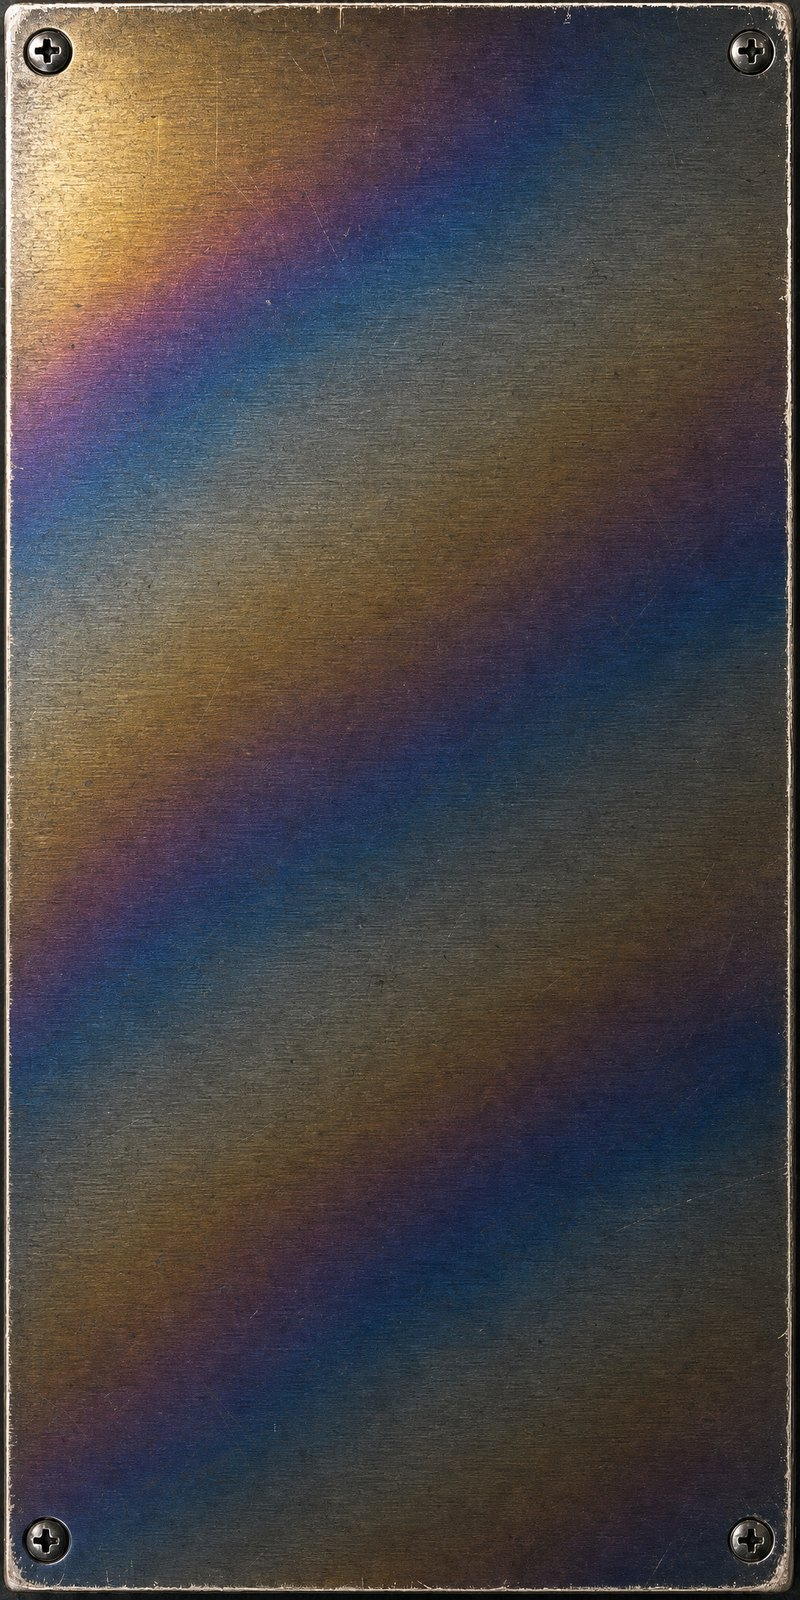
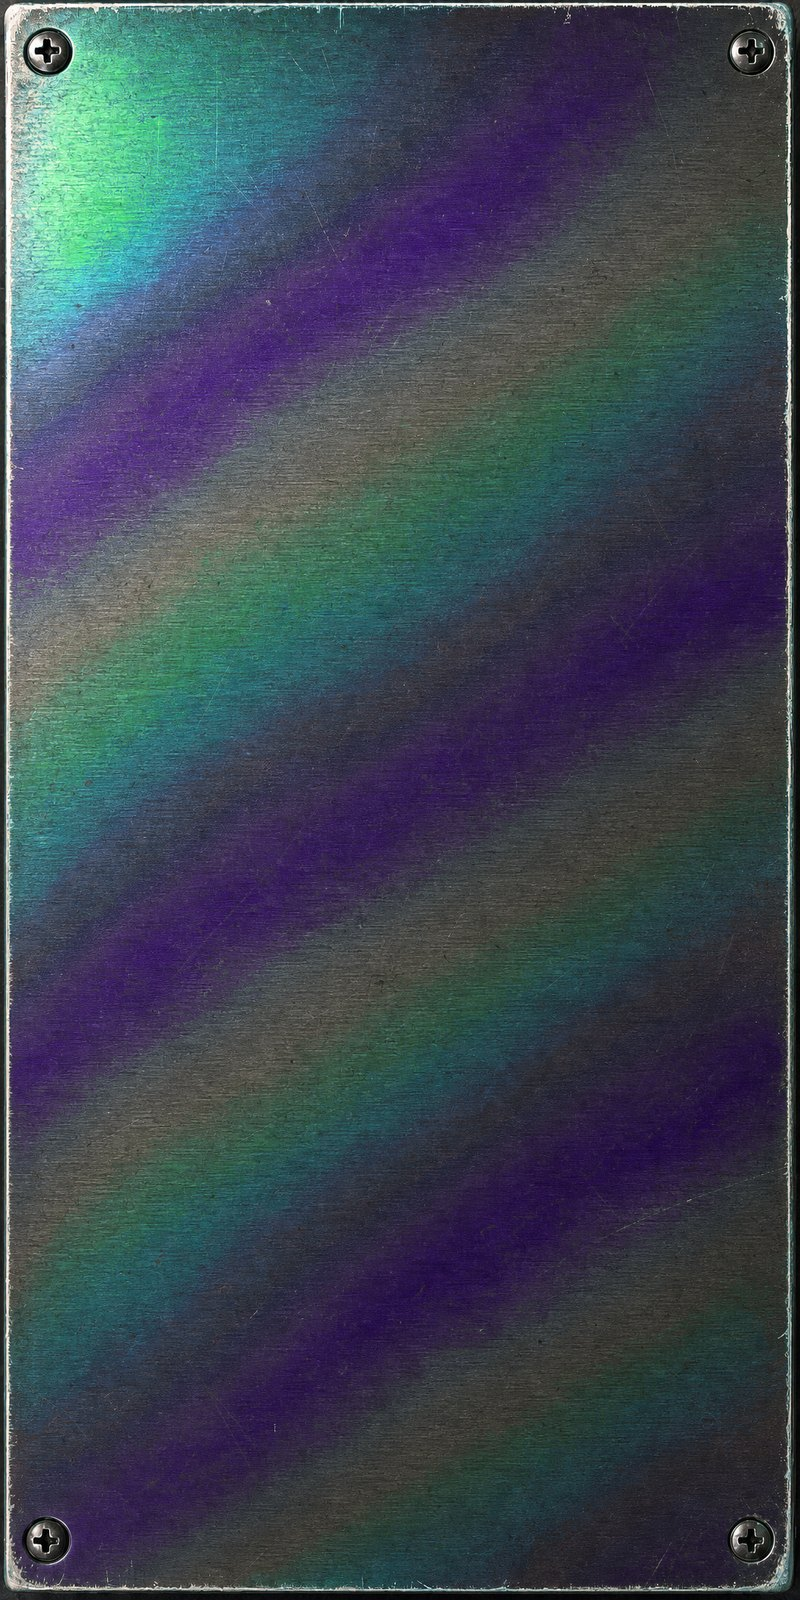
/revfx player: the titanium plates take the pedals' colours
Yoni: the plates' shades should be the pedals' own. The burnt titanium heat tint
is retinted (tools/revfx-player/retint.py) to run HALO green -> GLUE cyan ->
PITCH ice blue -> REVERB violet -> ECHO pink, each colour an equal band, ECHO's
pink lifted so it reads as neon; only tinted pixels move, so the grey metal,
the worn silver edges and the screws stay as they were. Done locally: the
OpenAI credits ran out.

diff --git a/tools/revfx-player/retint.py b/tools/revfx-player/retint.py
@@ -1,0 +1,56 @@
+"""Retint the burnt-titanium plates into the RevFX pedal lamp colours (Yoni 2026-11-05: "make the shades of the colors
+of the titanium panels like the shades of color of the pedals themselves").
+
+  python -I tools/revfx-player/retint.py <src dir with plate-w.png, plate-s.png, plate-t.png>
+
+Burnt titanium tints in a fixed order as it heats: straw gold -> bronze -> magenta -> blue (hue 50 -> 25 -> -50 -> -135,
+falling). That order is mapped onto the pedals' own spectrum, rising: HALO green #6dff9a (140) -> GLUE cyan #6fe8ff
+(188) -> PITCH ice blue #cfe0ff (218) -> REVERB violet #c79bff (265) -> ECHO pink #ff5fd9 (315): each colour a
+plateau band of equal area (cut at the tint's own quantiles) with a soft blend into the next, the way real heat tint
+runs from band to band. Only tinted pixels move (blended in by saturation 0.1 -> 0.3):
+grey metal, the worn silver edges, grime and the screws keep their own colour.
+Out: src/assets/seasons/revfx/hear/plate-w.jpg (1600x800), plate-s.jpg (800x800), plate-t.jpg (800x1600).
+"""
+import os, sys
+import numpy as np
+from PIL import Image
+
+ROOT = os.path.dirname(os.path.dirname(os.path.dirname(os.path.abspath(__file__))))
+OUT = os.path.join(ROOT, 'src', 'assets', 'seasons', 'revfx', 'hear')
+SRC = sys.argv[1]
+JOBS = [('plate-w', (1600, 800)), ('plate-s', (800, 800)), ('plate-t', (800, 1600))]
+
+
+STOPS = [140, 188, 218, 265, 320]   # HALO green, GLUE cyan, PITCH ice blue, REVERB violet, ECHO pink
+
+
+def retint(im):
+    rgb = np.array(im.convert('RGB')).astype(np.float32)
+    hsv = np.array(im.convert('HSV')).astype(np.float32)
+    h = hsv[..., 0] * 360 / 255; s = hsv[..., 1] / 255
+    hu = np.where(h <= 140, h, h - 360)                 # unwrap: gold 50 ... blue -135 on one falling line
+    t = np.clip((50 - hu) / 185, 0, 1)                  # 0 = straw gold, 1 = deep blue
+    tinted = s > .2
+    # equal area per pedal colour: each colour holds a plateau band of the tint's own quantiles (10 % of the coloured
+    # area flat, then a 10 % blend into the next), so the end colours (green, pink) get as much room as the middle ones
+    edges = np.linspace(0, 1, 2 * len(STOPS))                       # 0, .11, .22 ... 1
+    q = np.quantile(t[tinted], edges) if tinted.any() else edges
+    q = np.maximum.accumulate(q + np.arange(len(q)) * 1e-6)
+    nh = np.interp(t, q, np.repeat(STOPS, 2))
+    out = hsv.copy()
+    out[..., 0] = (nh % 360) * 255 / 360
+    out[..., 1] = np.clip(s * 1.12, 0, 1) * 255
+    # ECHO's hot pink is a bright neon: a deep pink on dark metal reads violet, so the pink band gets light + colour
+    pink = np.clip(1 - np.abs(nh - 318) / 30, 0, 1)
+    out[..., 1] = np.clip(out[..., 1] * (1 + .35 * pink), 0, 255)
+    out[..., 2] = np.clip(out[..., 2] * (1 + .32 * pink), 0, 255)
+    new = np.array(Image.fromarray(out.astype(np.uint8), 'HSV').convert('RGB')).astype(np.float32)
+    # grey metal, the worn silver edges, grime and the screws keep their own colour: blend in by saturation
+    w = np.clip((s - .1) / .2, 0, 1)[..., None]; w = w * w * (3 - 2 * w)
+    return Image.fromarray(np.clip(rgb * (1 - w) + new * w, 0, 255).astype(np.uint8), 'RGB')
+
+
+for name, size in JOBS:
+    im = Image.open(os.path.join(SRC, name + '.png')).convert('RGB')
+    retint(im).resize(size, Image.LANCZOS).save(os.path.join(OUT, name + '.jpg'), quality=86)
+    print('wrote', name, size)

diff --git a/tools/revfx-player/ASSETS.md b/tools/revfx-player/ASSETS.md
@@ -1,4 +1,4 @@
-| `plate-w.jpg` / `plate-s.jpg` / `plate-t.jpg` | burnt titanium (gold / bronze / magenta / cobalt heat tint) with the patchbay plate's wear + a screw in each corner, 2:1 / 1:1 / 1:2 | gpt-image-2 edits with 2 refs: `bay-1` (wear, screws) + `tib-1` (burnt colour) (`gen-assets-9.ps1`; the sheet: `gen-assets-8.ps1`) | every section's plate, 9-sliced (slice 94 / 78 / 94 px; the border = the screw zone) |
+| `plate-w.jpg` / `plate-s.jpg` / `plate-t.jpg` | burnt titanium, its heat tint RETINTED to the five pedal colours (HALO green, GLUE cyan, PITCH ice blue, REVERB violet, ECHO pink: `retint.py`, run on the gpt-image-2 originals; Yoni: "like the shades of color of the pedals") with the patchbay plate's wear + a screw in each corner, 2:1 / 1:1 / 1:2 | gpt-image-2 edits with 2 refs: `bay-1` (wear, screws) + `tib-1` (burnt colour) (`gen-assets-9.ps1`; the sheet: `gen-assets-8.ps1`) | every section's plate, 9-sliced (slice 94 / 78 / 94 px; the border = the screw zone) |
 # RevFX #rfx-hear assets (2026-11-05, Claude Code `revaudio-0d`)
 
 The before/after player on /revfx (`src/components/revfx/RfxHear.astro`) is built from photo-real 90s gear made with
@@ -34,7 +34,13 @@ engage / bypass button not a stomp switch ... like for drift"); the switch photo
 
 Checks also: `node tools/revfx-player/checks/names.cjs` (the pedal names never closer than 4 px).
 
+Retint: `python -I tools/revfx-player/retint.py <folder with plate-w/-s/-t.png>` (the OpenAI originals live in the
+session scratchpad; keep a copy before re-running). OpenAI credits ran out 2026-11-05, so this pass is local.
+
 Rules learned:
+- A heat-tint recolour that keeps a photo real: move only the HUE of the tinted pixels (blend in by saturation, so grey
+  metal, worn silver edges and screws stay put), give every target colour an equal plateau of the tint's own area,
+  and lift a neon colour's value (a dark pink on dark metal reads violet).
 - `gpt-image-1` is retired. `gpt-image-2` = best realism, opaque only, no `input_fidelity`, custom sizes up to 3:1.
   `gpt-image-1.5` = transparent cutouts.
 - Make a plate at the ratio it shows at and stretch it. 9-slicing (`border-image ... round`) the first plates left

diff --git a/tasks/handoff.md b/tasks/handoff.md
@@ -56,6 +56,7 @@ Claim: OPEN `revaudio-0d`. Files: `src/components/revfx/RfxHear.astro` (new), `s
   Checks saved in tools/revfx-player/checks/. 5 more OpenAI images.
 - Round 7 (Yoni: "good job! do the left panel also with the titanium"): the patchbay is a burnt titanium .rfx-plate (plate-t on laptops, plate-w below 1024); bay.jpg retired. Screw test PASS, fit clean, build green.
 - Round 8 (Yoni: "make the engage / bypass button not a stomp switch ... like for drift bypass button"): /drift's push-to-start (drift.css .d-start + #hear's raised cap) in RevFX purple, REVFX / ENGAGE, at the head of the STOMP plate beside the board; step 3 = PUSH REVFX, coach PUSH REVFX / PUSH AGAIN: BYPASS, headline "Plug in. Push it." (was Stomp it). Switch + LED photos retired. Screw test PASS, fit + names clear at 11 widths, click-through clean, build green.
+- Round 9 (Yoni: "make the shades of the colors of the titanium panels like the shades of color of the pedals"): OpenAI credits ran OUT (credit_balance_exhausted), so the plates were retinted locally (`tools/revfx-player/retint.py`): the heat tint now runs HALO green -> GLUE cyan -> PITCH ice -> REVERB violet -> ECHO pink; metal, edges and screws untouched. Screw test PASS, build green.
 - Next: Yoni's look + his sounds. Branch only; main (= live deploy) waits for his "push".
 
 ## 2026-11-04 — GAS 2 postcards: the end page scrolls as one page, the footer under it (Claude Code `danavivi-c2 [ca2821]`, Dan's Mac) — PUSHED TO MAIN 2026-11-04 on Dan's word "perfect push to main" (from `fix/gas2-end-flow`)
